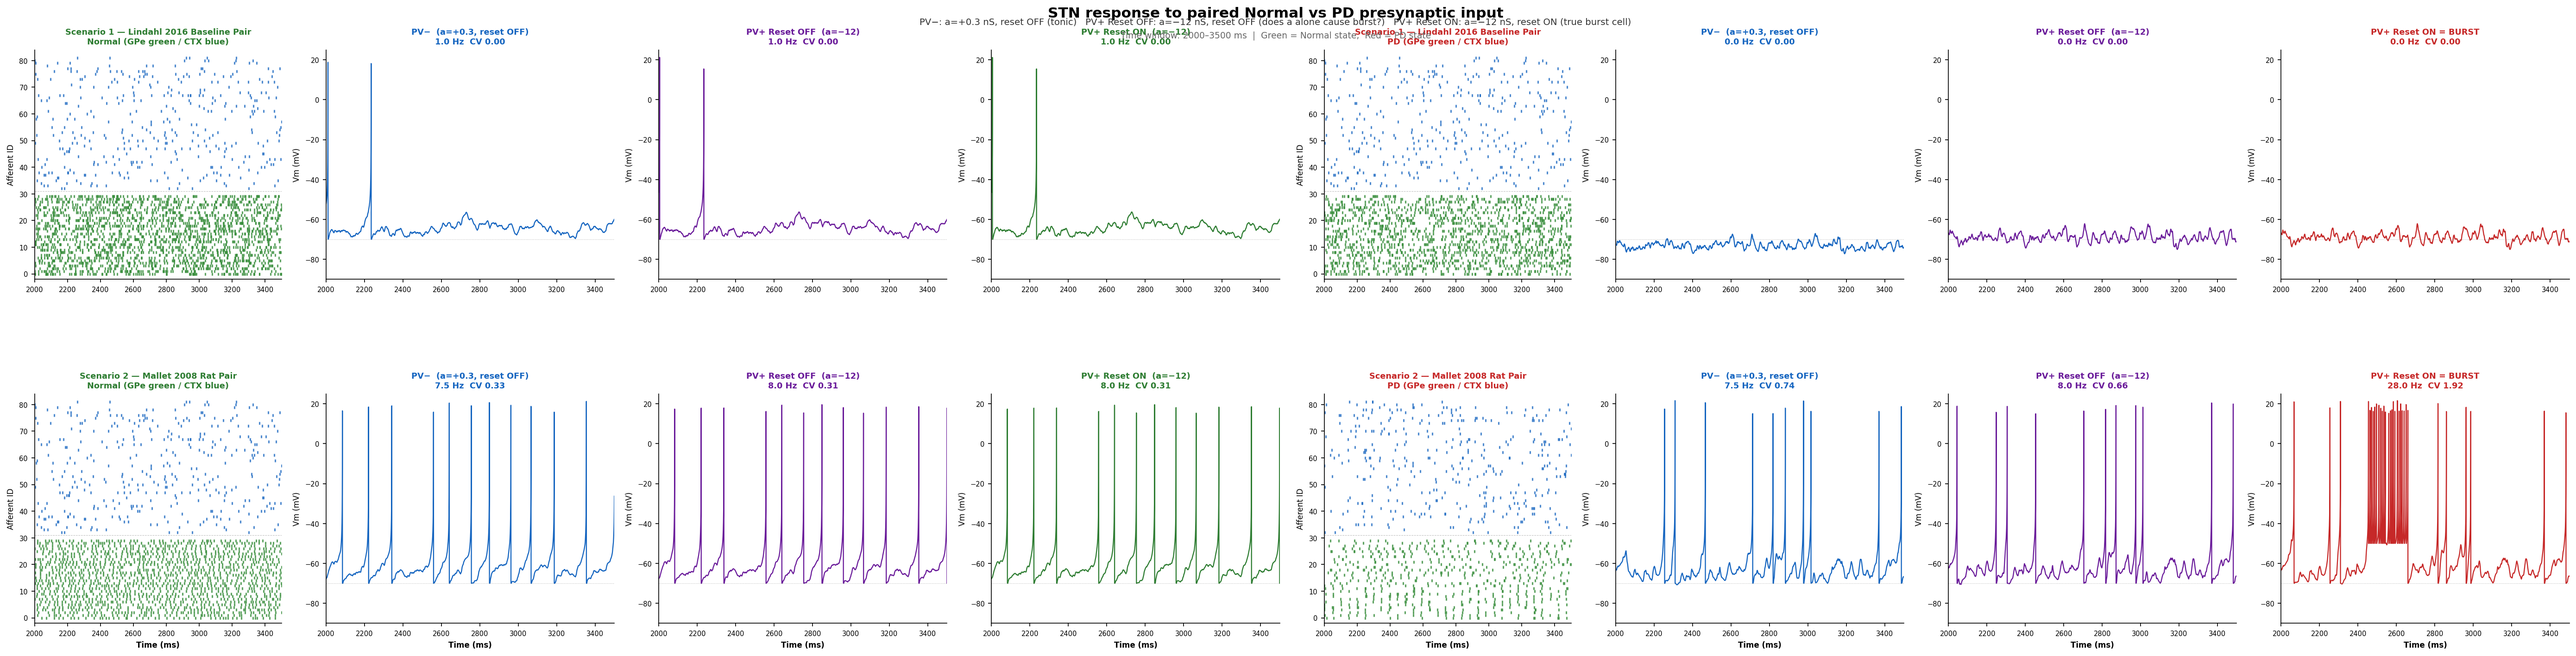
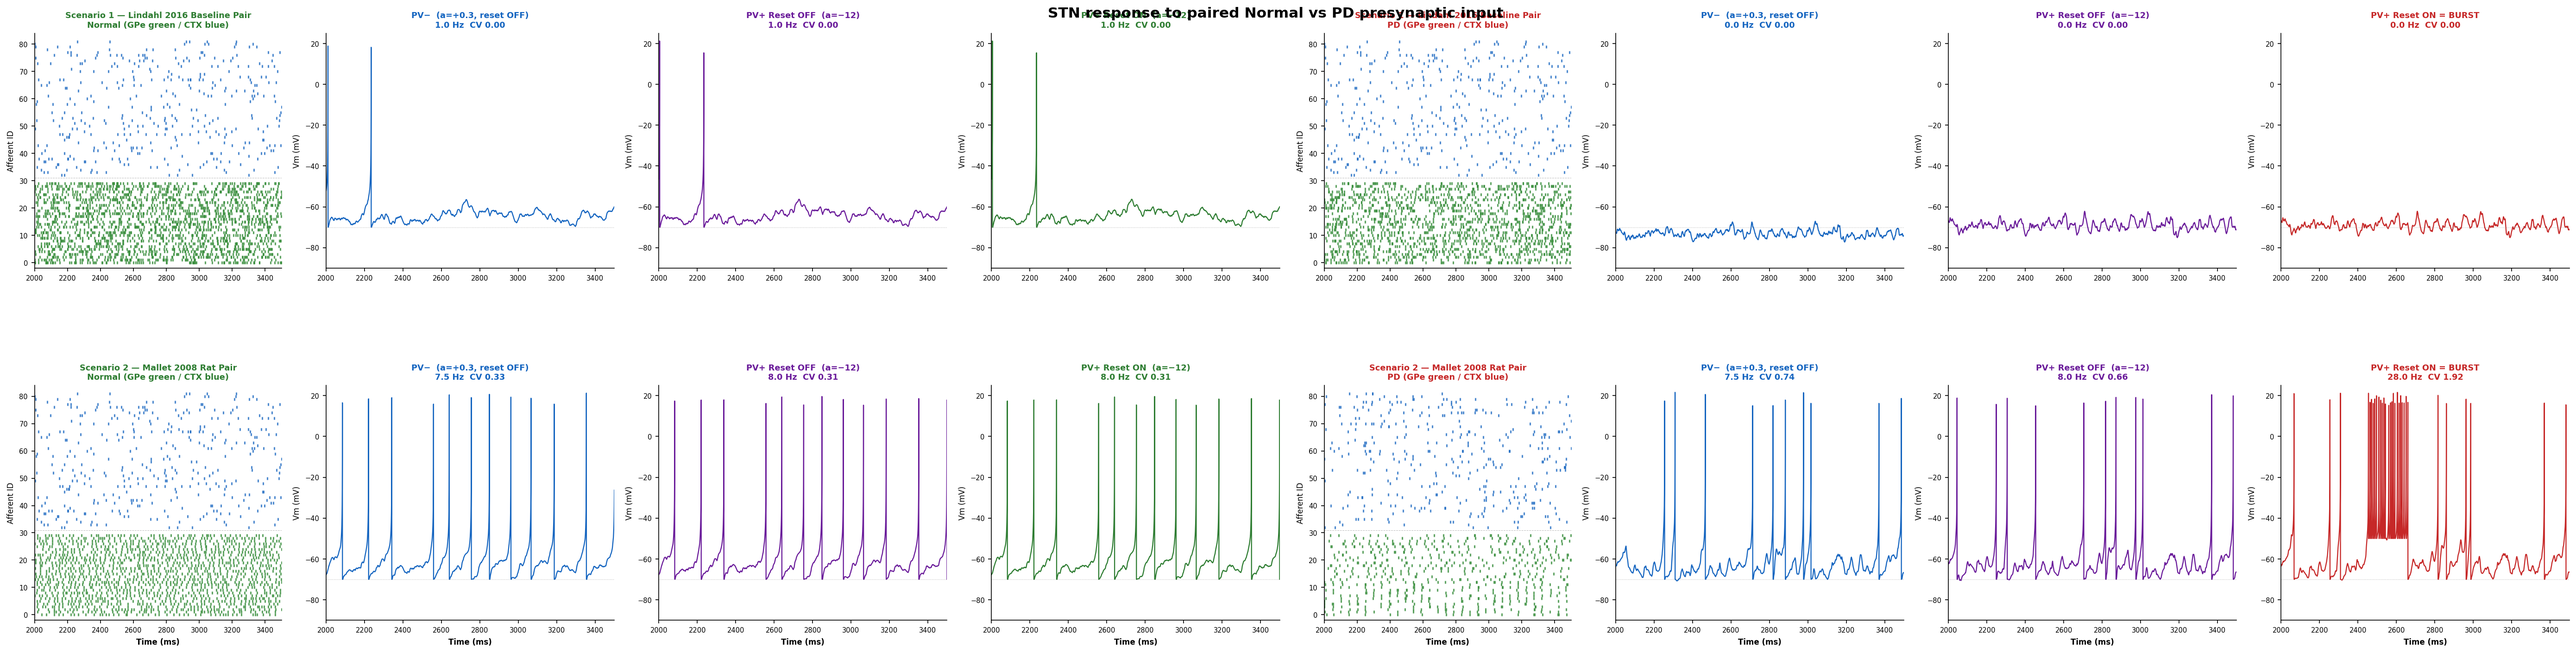
Remove gray subtitle text from both figures

diff --git a/Downloads/stn_burst_project/stn_borderline_tonic_burst_transition.py b/Downloads/stn_burst_project/stn_borderline_tonic_burst_transition.py
@@ -396,10 +396,7 @@ def generate_phase_diagram():
     fig = plt.figure(figsize=(16, 11), facecolor="white")
     fig.suptitle("STN AdEx Phase Plane & Dynamics: Normal vs PD State",
                  fontsize=15, fontweight="bold", y=0.985)
-    fig.text(0.5, 0.945,
-             "Side-by-Side Comparison: Normal (Left, Green) vs PD (Right, Red)\n"
-             "Firing pattern is set by where the RESET lands relative to V-nullcline: below -> sharp burst; above -> sag / tonic",
-             ha="center", fontsize=10, color="#444")
+
 
     # 2 Columns (Normal Left, PD Right) x 2 Rows (Top: Phase Portrait, Bottom: V(t) Traces)
     gs = gridspec.GridSpec(2, 2, figure=fig, hspace=0.35, wspace=0.22,
@@ -745,22 +742,14 @@ def run_normal_pd_paired_comparison():
     fig = plt.figure(figsize=(38, 4.8 * len(paired_layout)), facecolor='white')
     fig.suptitle(
         "STN response to paired Normal vs PD presynaptic input",
-        fontsize=15, fontweight='bold', y=0.995
+        fontsize=15, fontweight='bold', y=0.99
     )
-    fig.text(0.5, 0.968,
-             "PV−: a=+0.3 nS, reset OFF (tonic)   "
-             "PV+ Reset OFF: a=−12 nS, reset OFF (does a alone cause burst?)   "
-             "PV+ Reset ON: a=−12 nS, reset ON (true burst cell)",
-             ha='center', fontsize=9.5, color='#333')
-    fig.text(0.5, 0.948,
-             "Time window: 2000–3500 ms  |  Green = Normal state,  Red = PD state",
-             ha='center', fontsize=9, color='#666')
 
     # Layout: 2 rows × 8 cols
     # [Normal Raster | PV- | PV+ OFF | PV+ ON | PD Raster | PV- | PV+ OFF | PV+ ON]
     gs = gridspec.GridSpec(len(paired_layout), 8, figure=fig,
                            hspace=0.50, wspace=0.16,
-                           left=0.03, right=0.99, top=0.93, bottom=0.07,
+                           left=0.03, right=0.99, top=0.95, bottom=0.07,
                            width_ratios=[0.9, 1.05, 1.05, 1.05, 0.9, 1.05, 1.05, 1.05])
 
     for row_idx, (title, normal_id, pd_id, note) in enumerate(paired_layout):
